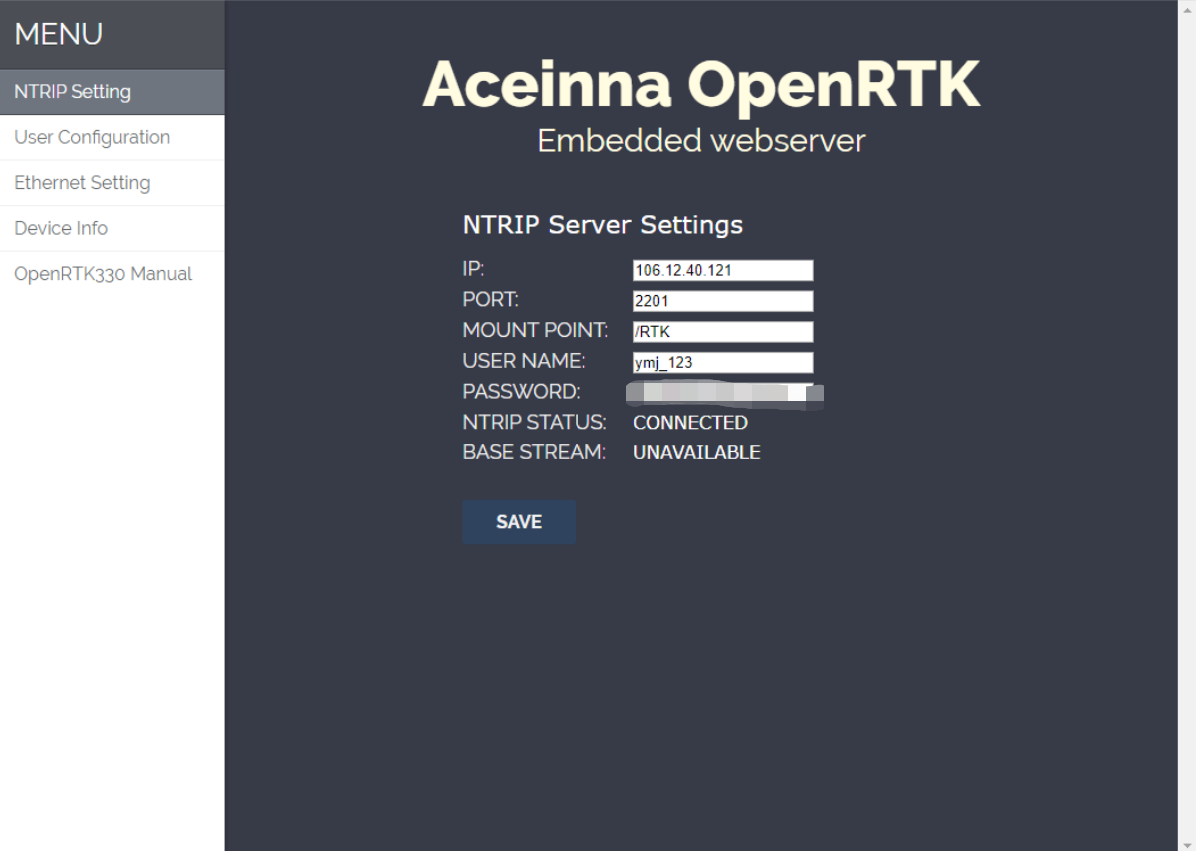
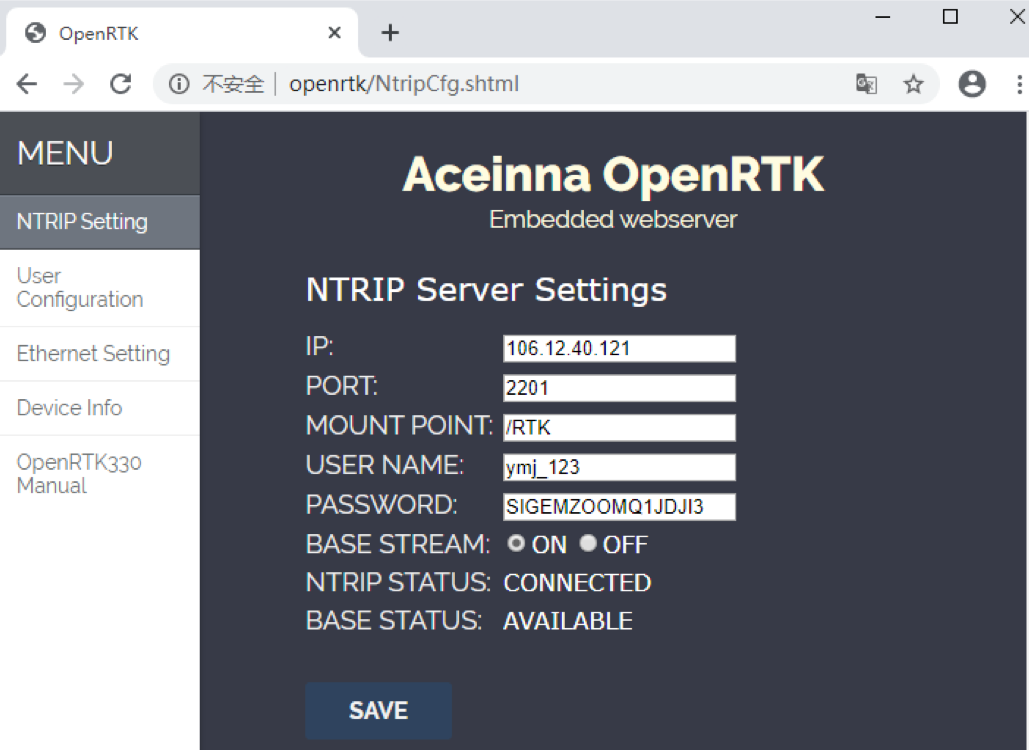
completed PC how-to-use section; cleaned up media pics

diff --git a/useOpenRTK/PC.rst b/useOpenRTK/PC.rst
@@ -1,128 +1,100 @@
 PC
 ===
 
-.. OpenRTK platform acts as NTRIP client
-   connects with NTRIP server to gets/sends RTCM/NMEA data via ethernet. For more
-   details, please refer to RTK/Cloud RTK.
+Using OpenRTK330 with a PC needs to access the web based Aceinna developer website via ethernet connection.
 
-OpenRTK PC platform acts as an auxiliary tool, connected to the OpenRTK module via USB to 
-configure parameters during data transmission. Finally display trajectory in map.
-
-.. OpenRTK acts as NTRIP client connects with NTRIP server to fetch
-   RTCM/NMEA data from ethernet in RTK, and then send to Aceinna server,
-   after the calculation of the server, the data is returned, and then
-   written to the device. The RTK device will calibrate according to the
-   data.
-
-
-Installation and initialization
-~~~~~~~~~~~~~~~~~~~~~~~~~~~~~~~
-
- ::
-
- 1. Plug in a RJ45 cable from the host(e.g. Router or Desktop) to the
-    ethernet port of OpenRTK.
- ::
-
- 2. DHCP IP address is used by OpenRTK as default, if no success,
-    manually setup a STATIC IP (ip = 192.168.1.110, netmask =
-    255.255.255.0, gateway = 192.168.1.1).
- ::
-
- 3. Visit the embedded web site ("http://openrtk") on the same LAN as
-    OpenRTK.
-
-Aceinna Network service subscription
-~~~~~~~~~~~~~~~~~~~~~~~~~~~~~~~~~~~~
-
- **Generate API**. If you do not have the API key, you need `generate API
- key <https://openrtk.readthedocs.io/en/latest/Network/getapikey.html>`__  
- to use Aceinna RTK network and set the number of allowed devices.
-
- .. image:: ../media/signup.png
-    :align: center
-    :scale: 50%
-
-Configuration
+Usage
 ~~~~~~~~~~~~~
+1. Power on the OpenRTK330 EVB using a 9-12 v DC adaptor or a microUSB cable connected to a PC, then connect the EVB with a GNSS antenna, and lastly check the YELLOW, RED AND GREEN LED lights to confirm valid firmware
 
- **1. Ntrip Configuration**.
+  - YELLOW: flashing light indicating GNSS chipsets is powered on with valid 1PPS signal output
+  - GREEN: flashing light indicating OpenRTK330 RTK or INS App is running correctly with valid GNSS signal receiving 
 
-  - *IP*: NTRIP server ip, it can be ip like "106.12.40.121", or be the hostname like "rtk.aceinna.com".
-  - *PORT*: NTRIP server port.
-  - *MOUNT POINT*: NTRIP mount point, if you use Aceinna Cloud Server, it will be "/RTK".
-  - *USER NAME*: If you use Aceinna Cloud Server, it will be the user name.
-  - *PASSWORD*: If you use Aceinna Cloud Server, it will be the Apikey.
-  - *NTRIP STATUS*: CONNECTET/DISCONNECTED: indication of ntrip connection status.
-  - *BSAE STREAM*: AVAILABLE/UNAVAILABLE: indication of base rtcm stream.
+2. **Connection**
 
-  You can click 'SAVE', if the NTRIP STATUS is CONNECTED, it will be effective next time. So, you should 
-  reconnect the network or restart the OpenRTK board.
+ - Plug in a RJ45 cable connected with the same router as the PC to the ethernet port of OpenRTK330 EVB. By factory setting, an IP address is allocated to OpenRTK330 device in the way of DHCP. Make sure the ligths on the RJ45 interface are flashing, which means valid ethernet connection. 
 
-  .. image:: ../media/ntripconfi.png
-     :align: center
-     :scale: 50%
+ - Run the python driver for OpenRTK330 to get connectted with Aceinna developer website. There are two options
 
- **2. User Configuration**.
+    - Download executable files (version 1.1.0) and run in a command line          
 
-    - change device setting, like baud rate, output packet and so on.
+        - `Windows 10 <https://github.com/Aceinna/python-openimu/files/4211970/ans-devices-win.zip>`_
+
+        - `Mac OS <https://github.com/Aceinna/python-openimu/files/4211966/ans-devices-mac.zip>`_
+
+        - `Linux (Ubuntu 19.10) <https://github.com/Aceinna/python-openimu/files/4211966/ans-devices-mac.zip>`_
+
+        - `Raspberry Pi (Raspbian GNU/Linux 9) <https://github.com/Aceinna/python-openimu/files/4211966/ans-devices-mac.zip>`_
+
+    - If you prefer building from source, go to Aceinna's github page and clone the repo `python-openimu <https://github.com/Aceinna/python-openimu>`_, and checkout the "ans-devices" branch. Run the OpenRTK Python driver with the following commands:
+
+            .. code-block:: python
+
+                cd .\python-openimu
+                pip install -r requirements.txt
+                python main.py
+
+    The python driver automatically scans available USB-serial ports and finds the right com port that reports positioning information packets. If ethernet connection is established successfully via python driver, the "WS Server connected" notification appears and the "Play" button is highlighted on `OpenRTK Monitor <https://developers.aceinna.com/devices/rtk>`_, as shown below
+
+     .. image:: ../media/web_gui_connect.png
+       :align: center
+
+3. **Map Presentation**
+
+ - Click "Play", Device information is exposed on the DEVICE INFO page (https://developers.aceinna.com/devices/rtk). 
+
+ .. image:: ../media/web_gui_play.png
+   :align: center
+   :scale: 50%
+
+
+4. **NTRIP and User Configurations**
+
+ A lightweight TCP/IP web service is started inside the OpenRTK330 firmware after power on, user can get access to the web service via a simple `web GUI <http://openrtk>`_ (http://openrtk)
+
+    
+
+    .. manually setup a STATIC IP (ip = 192.168.1.110, netmask =  255.255.255.0, gateway = 192.168.1.1).
+
+            **Generate API**. If you do not have the API key, you need `generate API
+         ``key <https://openrtk.readthedocs.io/en/latest/Network/getapikey.html>`__  
+         to use Aceinna RTK network and set the number of allowed devices.
+
+         .. image:: ../media/signup.png
+            :align: center
+            :scale: 50%
+
+- On the home page, user can change and save NTRIP settings of user's GNSS correction data provider. 
+
+  - "NTRIP STATUS" field with "CONNECTED" string indicates that the ethernet connection to NTRIP server is valid 
+  - "BASE STREAM" field with string value "AVAILABLE" indicates GNSS correction data stream from NTRIP server is valid. 
+
+    .. image:: ../media/ntripconfi.png
+             :align: center
+             :scale: 50%
+ 
+
+- On the User Configuration page, user can change and save OpenRTK330 device settings, like lever arm, output packet and so on.
 
     .. image:: ../media/usercfg.png
        :align: center
        :scale: 50%
 
- **3. Ethernet Configuration**.
+ - Ethernet Configuration
 
-    -  *MAC*: It can be modified in the code, the last three bytes is the CPU's device ID.
-    -  *MODE*: 
+  - *DHCP*: factory setting 
+  - *STATIC IP*: STATIC NETMASK and STATIC GATEWAY. You should config the same gateway as your network equipment and choose an available IP address.
 
-         - *DHCP mode*: it will do dhcp util success. 
-         - *STATIC IP*: STATIC NETMASK and STATIC GATEWAY. You should config the same gateway of your net device and config a free ip.
-
-    You can click 'SAVE' to let the configuration be effective immediately. If the NTRIP STATUS is CONNECTED, it will reconnect immediately.
+  You can click 'SAVE' to let the configuration be effective immediately. If the NTRIP STATUS is CONNECTED, it will reconnect immediately.
 
     .. image:: ../media/ethcfg.png
        :align: center
        :scale: 50%
 
- **4. Device Info**
-
-    You can see all the device infomation.
+- Device Info page: user can see all the product infomation of the connected device.
 
     .. image:: ../media/deviceinfo.png
        :align: center
        :scale: 50%
 
-Connection
-~~~~~~~~~~
-
- - You should download python driver from https://github.com/Aceinna/python-openimu/tree/ans-devices. 
-   Then, you need to run main.py (python main.py -p 9753).
-
- - Device information is exposed on the DEVICE INFO page (https://developers.aceinna.com/devices/rtk). 
-   The default webserver port for rtk is 9753. If you change the port on the web, you should also 
-   change the port when running main.py.
-
- - Connection Status is shown on the link symbol at the top right hand side of the page.
- 
- .. image:: ../media/connect.png
-   :align: center
-   
- - You can visit https://developers.aceinna.com/devices/files to see      RTK LOGIN LOGS.
-
-    .. image:: ../media/serverrtk.png
-        :align: center 
-
-Map
-~~~
-
- Play button will be enabled when openrtk is connected. Click 'play' to see the openrtk output information.
-
- .. image:: ../media/map.png
-   :align: center
-   :scale: 50%
-
- .. image:: ../media/skyview.png
-   :align: center
-   :scale: 50%
 

diff --git a/setup-OpenRTK.rst b/setup-OpenRTK.rst
@@ -39,20 +39,26 @@ By factory settings, the ESP32 module on the OpenRTK330 EVB has been programmed 
             :height: 4.0in
 
     1. (Recommended) The **online upgrade** way  
-    
-        - Download and run the python driver executables from a command line
-          
-            - `Windows 10 <https://github.com/Aceinna/python-openimu/files/4211970/ans-devices-win.zip>`_
 
-            - `Mac OS <https://github.com/Aceinna/python-openimu/files/4211966/ans-devices-mac.zip>`_
+       - Run the python driver for OpenRTK330 to get connectted with Aceinna developer website. There are two options
 
-        - If you prefer building from source, go to Aceinna's github page and clone the repo `python-openimu <https://github.com/Aceinna/python-openimu>`_, and checkout the "ans-devices" branch. Run the OpenRTK Python driver with the following commands:
+            - Download executable files (version 1.1.0) and run in a command line          
 
-            .. code-block:: python
+                - `Windows 10 <https://github.com/Aceinna/python-openimu/files/4211970/ans-devices-win.zip>`_
 
-                cd .\python-openimu
-                pip install -r requirements.txt
-                python main.py
+                - `Mac OS <https://github.com/Aceinna/python-openimu/files/4211966/ans-devices-mac.zip>`_
+
+                - `Linux (Ubuntu 19.10) <https://github.com/Aceinna/python-openimu/files/4211966/ans-devices-mac.zip>`_
+
+                - `Raspberry Pi (Raspbian GNU/Linux 9) <https://github.com/Aceinna/python-openimu/files/4211966/ans-devices-mac.zip>`_ 
+
+            - If you prefer building from source, go to Aceinna's github page and clone the repo `python-openimu <https://github.com/Aceinna/python-openimu>`_, and checkout the "ans-devices" branch. Run the OpenRTK Python driver with the following commands:
+
+                .. code-block:: python
+
+                    cd .\python-openimu
+                    pip install -r requirements.txt
+                    python main.py
 
         The python driver automatically scans available USB-serial ports and finds the right com port. If the correct com port is found, the "UPGRADE" button circled by cyan rectrangle will be highlighted. Then click the "UPGRADE" button to start the firmware upgrade process and wait it completes.  
 

diff --git a/useOpenRTK/APP.rst b/useOpenRTK/APP.rst
@@ -21,9 +21,9 @@ Installation
 
 Usage
 ~~~~~~~~~~~~~
-1. Power on the OpenRTK330 EVB using a 9-12 v DC adaptor or a microUSB cable connected to a PC (desktop, Raspberry Pi etc.), then connect the EVB with a GNSS antenna, and lastly check the YELLOW, RED AND GREEN LED lights to confirm valid firmware
+1. Power on the OpenRTK330 EVB using a 9-12 v DC adaptor or a micro-USB cable to a powered USB outlet, then connect the EVB with a GNSS antenna, and lastly check the YELLOW, RED AND GREEN LED lights to confirm valid firmware
 
-  - YELLOW: flashing light indicating GNSS chipsets is powered on with 1PPS signal output correctly 
+  - YELLOW: flashing light indicating GNSS chipsets is powered on with valid 1PPS signal output
   - GREEN: flashing light indicating OpenRTK330 RTK or INS App is running correctly with valid GNSS signal receiving 
 
 2. **Connection**
